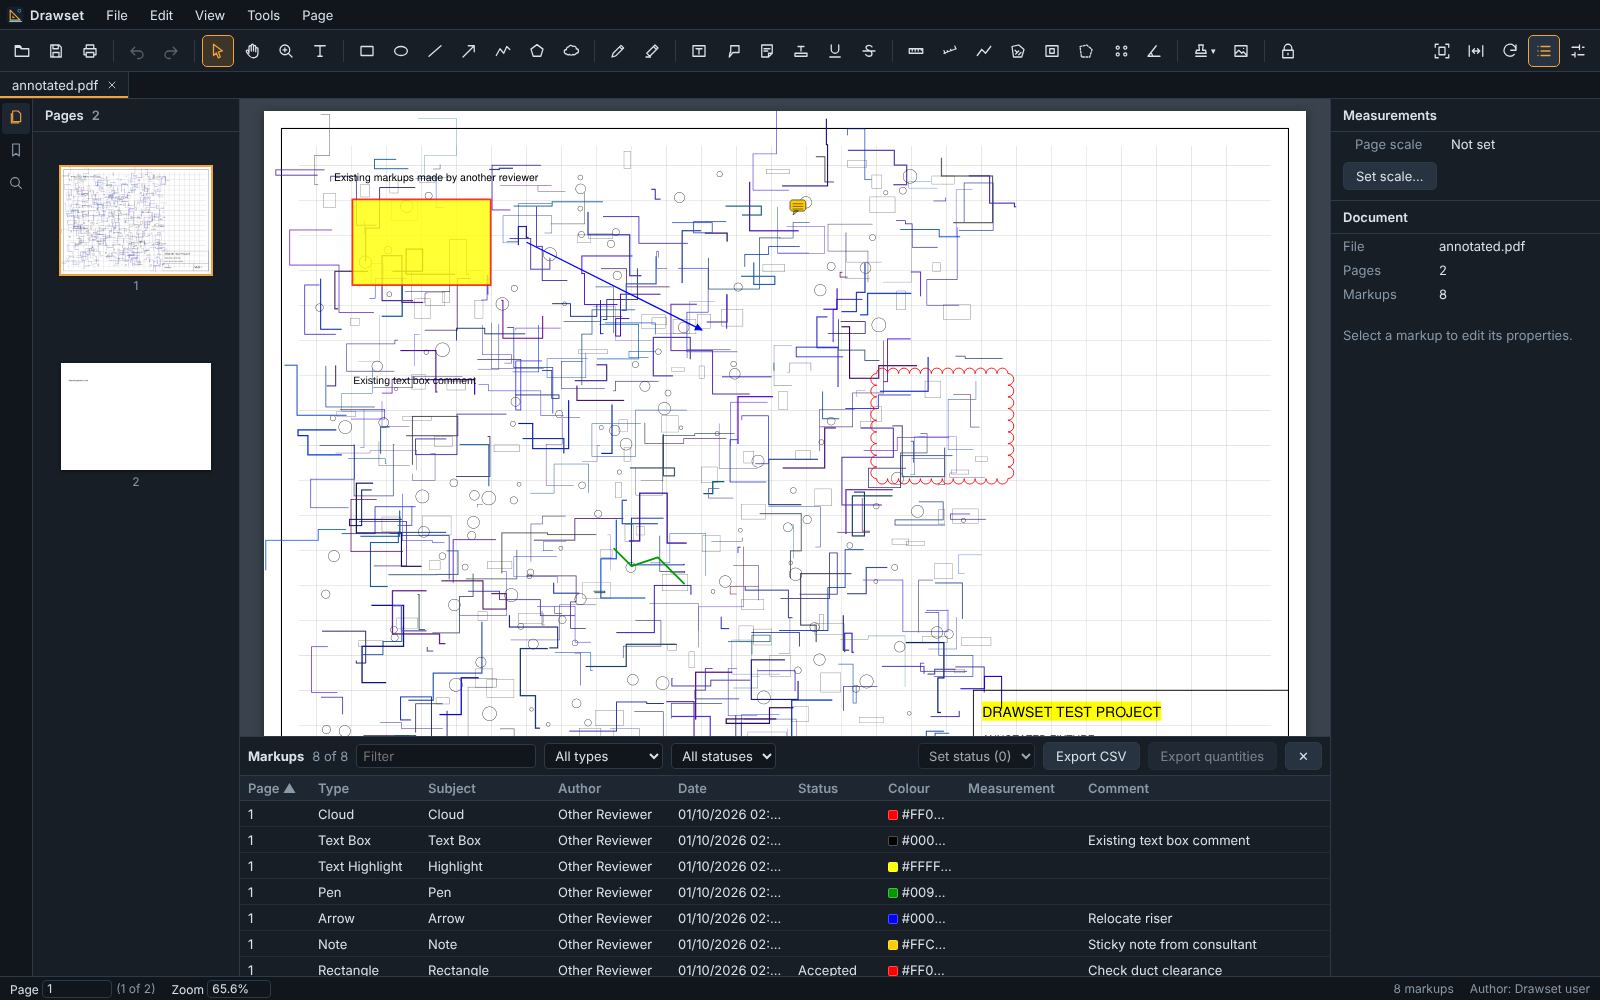
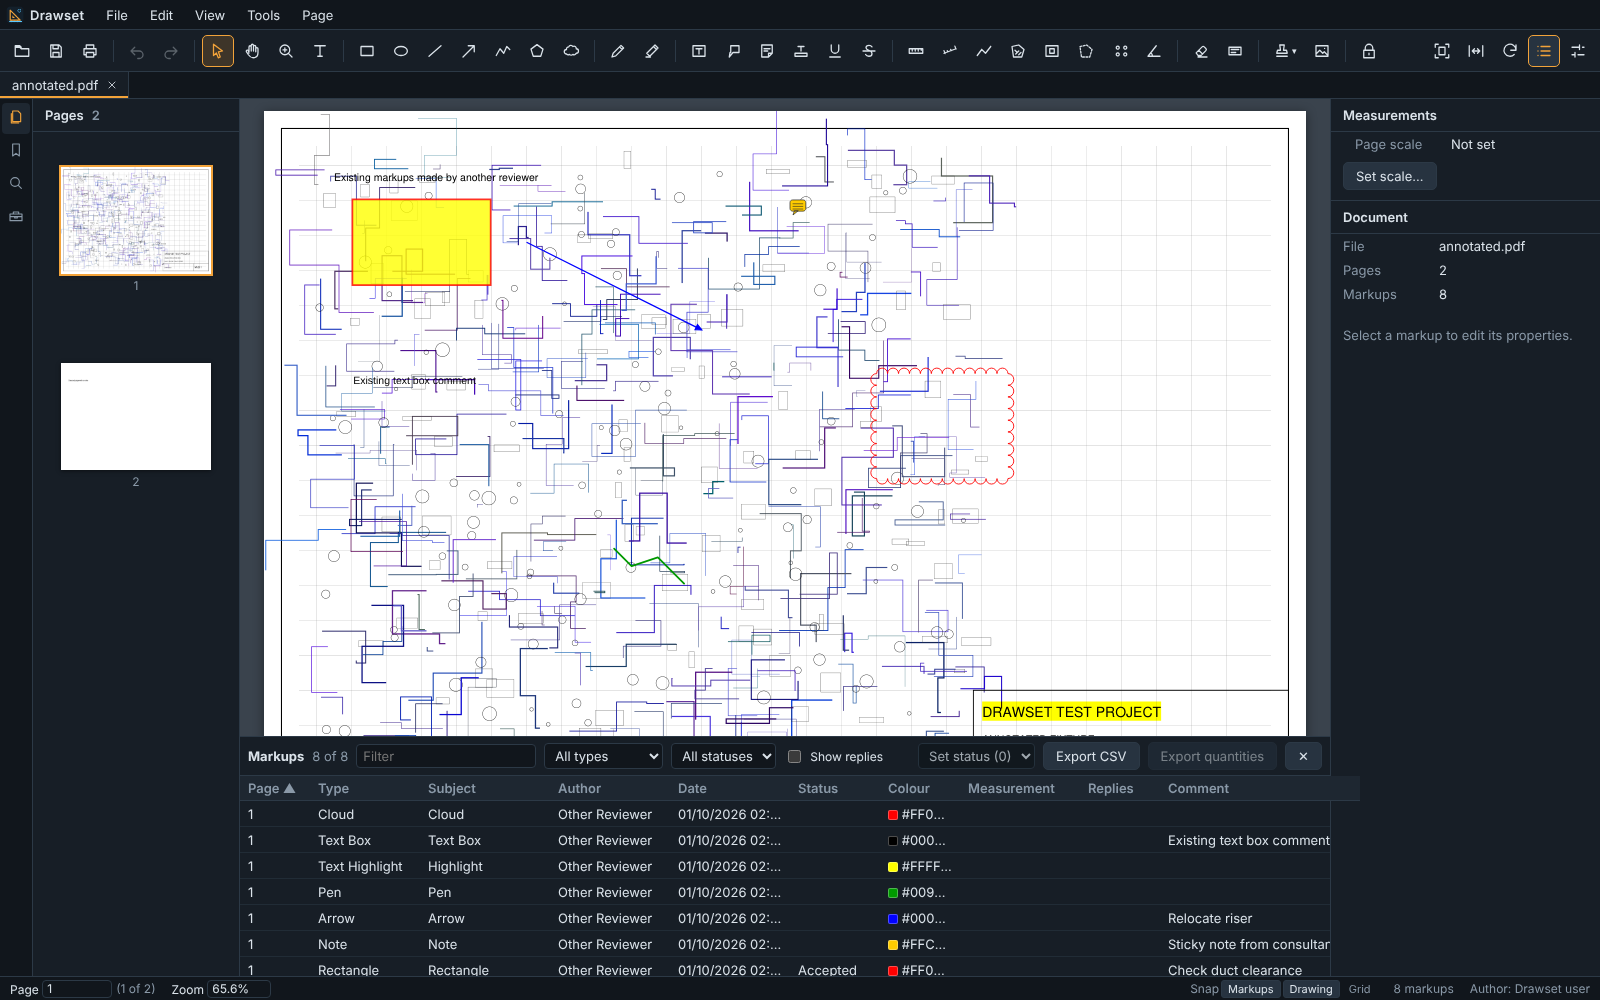
Tier 2 wrap-up: screenshots, tier report, Markups List toolbar layout fix
Claude-Session: https://claude.ai/code/session_01ESB18uJkNFcyBZq3dRpXQ4

diff --git a/tests/e2e/screens.spec.ts b/tests/e2e/screens.spec.ts
@@ -50,3 +50,33 @@ test("markups and measurements", async ({ page }) => {
   await page.waitForTimeout(800);
   await page.screenshot({ path: "docs/screenshots/measurements.png" });
 });
+
+test("overlay, Tool Chest and replies", async ({ page }) => {
+  await page.setViewportSize({ width: 1600, height: 1000 });
+  await page.goto("/");
+  await openFixture(page, "calibration.pdf");
+  await waitForPage(page);
+  await page.getByTestId("tool-cloud").click();
+  await drag(page, await pagePoint(page, 0.55, 0.25), await pagePoint(page, 0.75, 0.45));
+  await page.getByTestId("prop-subject").fill("Fire rating query");
+  await page.getByTestId("prop-subject").press("Enter");
+  await page.getByTestId("reply-input").fill("Is this wall fire rated?");
+  await page.getByTestId("reply-add").click();
+  await page.getByTestId("reply-answer").click();
+  await page.getByTestId("reply-input").fill("Yes, FRL 90/90/90 to the stair core.");
+  await page.getByTestId("reply-add").click();
+  await page.getByTestId("panel-toolchest").click();
+  await page.getByTestId("tc-add").click();
+  await page.getByTestId("tb-markups-list").click();
+  await page.getByTestId("ml-show-replies").check();
+  await page.waitForTimeout(600);
+  await page.screenshot({ path: "docs/screenshots/replies-toolchest.png" });
+
+  await openFixture(page, "dense-a1.pdf");
+  await waitForPage(page);
+  await page.getByTestId("menu-tools").click();
+  await page.getByRole("menuitem", { name: "Overlay pages…" }).click();
+  await page.getByTestId("overlay-b-file").selectOption({ label: "calibration.pdf" });
+  await page.waitForTimeout(1500);
+  await page.screenshot({ path: "docs/screenshots/overlay.png" });
+});

diff --git a/src/styles.css b/src/styles.css
@@ -292,6 +292,7 @@ textarea:focus {
   width: 270px;
   border-left: 1px solid var(--line);
   overflow-y: auto;
+  overflow-x: hidden;
   flex-direction: column;
 }
 .panel-tabs {
@@ -633,6 +634,7 @@ button.link {
 }
 .replies textarea {
   width: 100%;
+  box-sizing: border-box;
   resize: vertical;
 }
 .replies > .btn {
@@ -640,8 +642,9 @@ button.link {
 }
 .reply-head {
   display: flex;
+  flex-wrap: wrap;
   justify-content: space-between;
-  gap: 6px;
+  gap: 0 6px;
   font-size: 11px;
 }
 .reply-actions {
@@ -687,8 +690,15 @@ button.link {
   padding: 5px 8px;
   border-bottom: 1px solid var(--line);
 }
-.ml-toolbar input {
+.ml-toolbar input:not([type="checkbox"]) {
   width: 180px;
+}
+.ml-toolbar > * {
+  white-space: nowrap;
+  flex: none;
+}
+.ml-toolbar .spacer {
+  flex: 1;
 }
 .ml-head,
 .ml-row {

diff --git a/docs/TIER-REPORTS.md b/docs/TIER-REPORTS.md
@@ -1,0 +1,64 @@
+# Tier reports
+
+## Tier 2: takeoff and review (v0.2), 16 October 2026
+
+**State:** all Tier 2 features are built and tested (T2.1 to T2.8). The v0.1 and v0.2 tags and the
+Windows installer wait for the CI and release workflows, which GitHub would not let the build add
+(see "Waiting on William" below).
+
+### What is new
+- **Calibration** (T2.1): preset metric and imperial scales or two picked points, per page, for all
+  pages or a range, with display unit and decimal places. Stored as a full-page /VP viewport with
+  /Measure /RL, so other editors read the same scale.
+- **Measurements** (T2.2): length, polylength, area with cutouts, perimeter, count and angle, with
+  captions in the appearance stream, standard dimension intents and /Measure dictionaries. Values
+  recalculate when the page scale changes, in the same undo step.
+- **Quantities** (T2.3): Measurement column and totals in the Markups List, and a quantities CSV
+  with unrounded values and totals per type and unit.
+- **Erase and redact** (T2.4): areas or search results become pending /Redact annotations that can
+  be saved and reviewed; applying them removes the content and rewrites the whole file.
+- **Overlay pages** (T2.5): any two open pages in red and blue, shared content in black, toggles,
+  two-point alignment, and export as an image-based PDF whose caption says so.
+- **Tool Chest** (T2.6): save a markup as a tool (draw with its properties or place a copy), sets,
+  recents, JSON export and import, kept on this computer.
+- **Replies** (T2.7): threaded replies written as /IRT /RT /R, shown in Properties and as expandable
+  rows in the Markups List.
+- **Snapping** (T2.8): markup vertices, a millimetre grid, and the drawing's own line ends and
+  intersections, switched in the status bar; Alt held draws without snapping.
+
+### Tests at the end of Tier 2
+- Typecheck and lint clean.
+- 75 unit tests in 14 files (Node, MuPDF in-process; pdf.js as the independent check for every
+  writer): all pass.
+- 23 browser tests (Chromium, the app's own engine in a Web Worker): all pass.
+- Accuracy: calibration-sheet lengths, areas and perimeters measure within 0.1%; analytic area and
+  cutout cases match exactly up to MuPDF's single-precision storage (about 1e-7 relative).
+- Performance checks still met: first page of the 200-page set under 2 s; Markups List with 5,000
+  markups p95 frame under 50 ms; saving 500 markups under 3 s.
+
+### Screenshots
+`docs/screenshots/`: `markups.png`, `measurements.png`, `replies-toolchest.png`, `overlay.png`.
+
+### Known issues and limits
+- Imperial lengths show decimal feet or inches, not feet-and-inches (DECISIONS.md 14).
+- Erase and redact remove line art only when it lies wholly inside the area; MuPDF cannot cut
+  paths (DECISIONS.md 16).
+- Overlay export is an image, by design; it is labelled as such on the page and in the document
+  subject.
+
+### Waiting on William
+- Add `ci-workflows/ci.yml` and `ci-workflows/release.yml` to `.github/workflows/` (the build's
+  GitHub access lacks the `workflow` permission). Then the Windows installer is built in CI, which
+  completes T1.3, and v0.1 and v0.2 can be tagged with the installer attached to each Release.
+
+## Tier 1: core editor (v0.1)
+
+**State:** every Tier 1 feature except the Windows installer build is done and tested (T1.1, T1.2,
+T1.4 to T1.17). The Electron app bundles locally; the installer and the v0.1 tag wait for the
+workflows above.
+
+Highlights: tabs and continuous tiled viewing, thumbnails, bookmarks, page labels, search and
+text copy; 17 markup types written as standard annotations with appearance streams and read back
+exactly; editing with undo and redo; Properties panel; incremental save that keeps every unknown
+key from other editors byte for byte; flatten with confirmation; Markups List with CSV export;
+page operations; print.

diff --git a/PROGRESS.md b/PROGRESS.md
@@ -2,7 +2,7 @@
 
 **Current item:** T1.18 Tier 1 release (waiting on S3 for the Windows build)
 **Last finished:** T1.17 print
-**Next up:** T2.9 v0.2 wrap-up (release blocked on S3), then Tier 3 (Tier 2 continues while S3 is blocked)
+**Next up:** T3.1 compare documents (v0.1/v0.2 tags and installers wait on S3) (Tier 2 continues while S3 is blocked)
 
 ## How to install
 Download `Drawset-Setup-<version>.exe` from the latest GitHub Release (https://github.com/wmckenziegp/drawset/releases) and run it. Windows SmartScreen may warn because the installer is not code-signed: choose "More info" then "Run anyway".
@@ -32,3 +32,4 @@ Download `Drawset-Setup-<version>.exe` from the latest GitHub Release (https://g
 - T2.6: Tool Chest panel (left panel, and Edit > Add to Tool Chest). Tools draw with their saved properties or place an exact copy (switchable per tool); sets, recents, rename/delete, JSON export and import; kept in the app's local storage. Unit test: for all 20 drawable kinds, a tool taken through JSON export and import places a markup whose properties equal the original's, in memory and after writing and reading both from a PDF. E2E covers draw, copy, export, import and persistence after reload.
 - T2.7: Reply threads in the Properties panel (reply to a markup or to a reply, edit, delete; each an undo step) and in the Markups List (Replies column, expandable reply rows, Show replies, filter matches reply text, CSV Replies column). Written as /Text with /IRT and /RT /R, an empty appearance, and updated in place on incremental save. Tests: thread written and read back with its shape, pdf.js sees the same /IRT chain, page renders unchanged in MuPDF and pdf.js, edit/delete keep the rest; nested replies from other editors without /NM read correctly; /RT /Group is not a reply.
 - T2.8: Snapping for every drawing tool and vertex edits, switched in the status bar (Markups, Drawing, Grid with spacing in mm; Alt held draws without snapping), with a marker showing the target. The engine collects each page's line segments and curve ends once (dense A1: 54k segments) and the viewer indexes them with rbush. Tests: end points snap exactly (including inside transformed groups), crossing lines snap to their intersection, markup vertices beat the grid, the grid starts at the page corner, dense-sheet queries are fast; E2E draws a length onto the calibration sheet's line ends.
+- T2.9: full suite green (75 unit, 23 browser), new screenshots (replies and Tool Chest, overlay), tier report in docs/TIER-REPORTS.md, PR to main opened. Tags v0.1/v0.2 and installers wait for the workflows (S3). Fixed the Markups List toolbar wrapping and a stretched checkbox found in the screenshots.

diff --git a/PLAN.md b/PLAN.md
@@ -36,7 +36,7 @@ Each item is about 2 hours or less. Tick `[x]` when its acceptance criteria pass
 - [x] T2.6 Tool Chest: save markup as tool, sets, recents, JSON import/export. *Accept:* a tool reproduces the original markup's properties exactly.
 - [x] T2.7 Replies: threaded replies (/IRT /RT /R) shown in the Markups List. *Accept:* replies round-trip and display.
 - [x] T2.8 Snapping: markup vertices and grid, then page vector endpoints/intersections. *Accept:* snapped points equal target coordinates.
-- [ ] T2.9 Tier 2 release v0.2.
+- [ ] T2.9 Tier 2 release v0.2. (Suite, screenshots, tier report and PR to main done; tag and installer wait on S3.)
 
 ## Tier 3 — Only if ahead (release v0.3)
 - [ ] T3.1 Compare documents (raster diff, clouds listed as markups).
